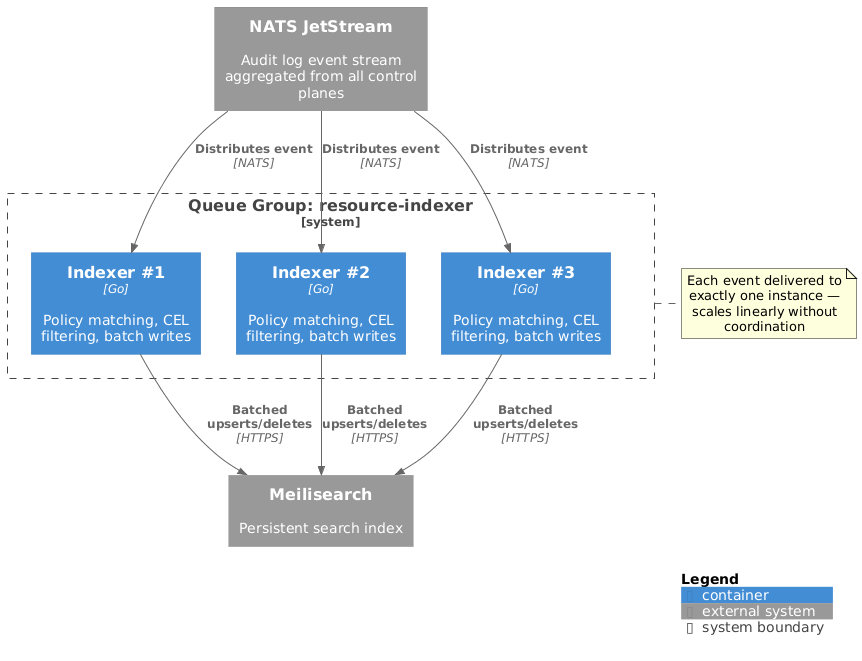
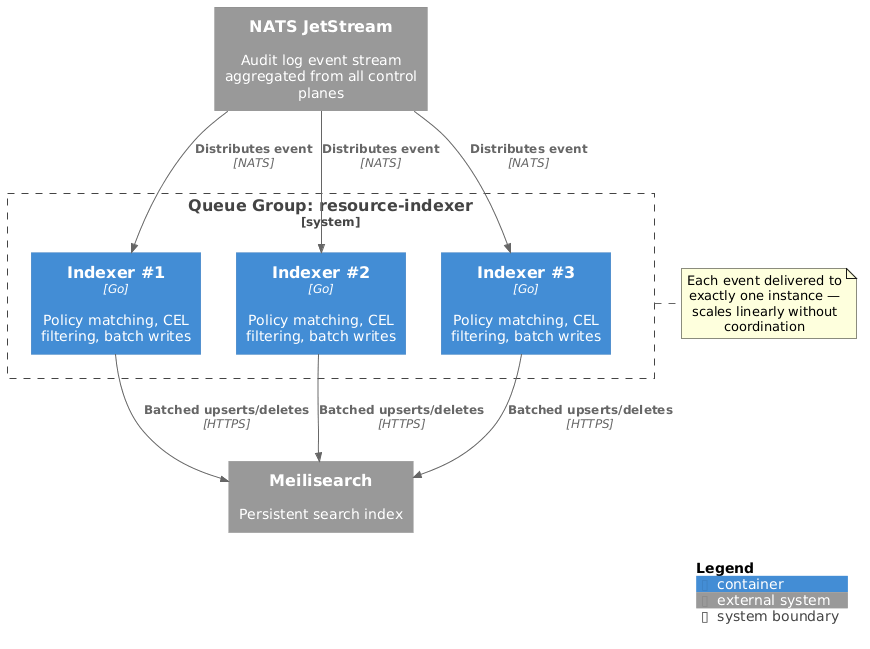
Merge pull request #89 from milo-os/migrate-to-milo-os
Update references for the move to milo-os

Pull request: Update references for the move to milo-os
This repo recently moved from [datum-cloud](https://github.com/datum-cloud) to [milo-os](https://github.com/milo-os). Updates internal links and image references to reflect the new home.

diff --git a/config/README.md b/config/README.md
@@ -71,7 +71,7 @@ Components are optional features that can be enabled in overlays. See [component
 ### Milo IAM Integration
 
 - **milo/iam**: Integrates with Milo for advanced IAM capabilities
-  - See <https://github.com/datum-cloud/milo>
+  - See <https://github.com/milo-os/milo>
 
 ## Customization
 
@@ -98,7 +98,7 @@ components:
   - ../../components/observability
 
 images:
-  - name: ghcr.io/datum-cloud/search
+  - name: ghcr.io/milo-os/search
     newTag: v1.0.0
 
 # Production-specific patches
@@ -206,7 +206,7 @@ kubectl logs -n search-system -l app=search-apiserver --previous
 kubectl get events -n search-system --sort-by='.lastTimestamp'
 
 # Verify image exists
-docker pull ghcr.io/datum-cloud/search:dev
+docker pull ghcr.io/milo-os/search:dev
 ```
 
 ## Production Checklist
@@ -230,4 +230,4 @@ Before deploying to production:
 - [Kustomize Documentation](https://kustomize.io/)
 - [cert-manager](https://cert-manager.io/)
 - [Prometheus Operator](https://prometheus-operator.dev/)
-- [Milo IAM](https://github.com/datum-cloud/milo)
+- [Milo IAM](https://github.com/milo-os/milo)